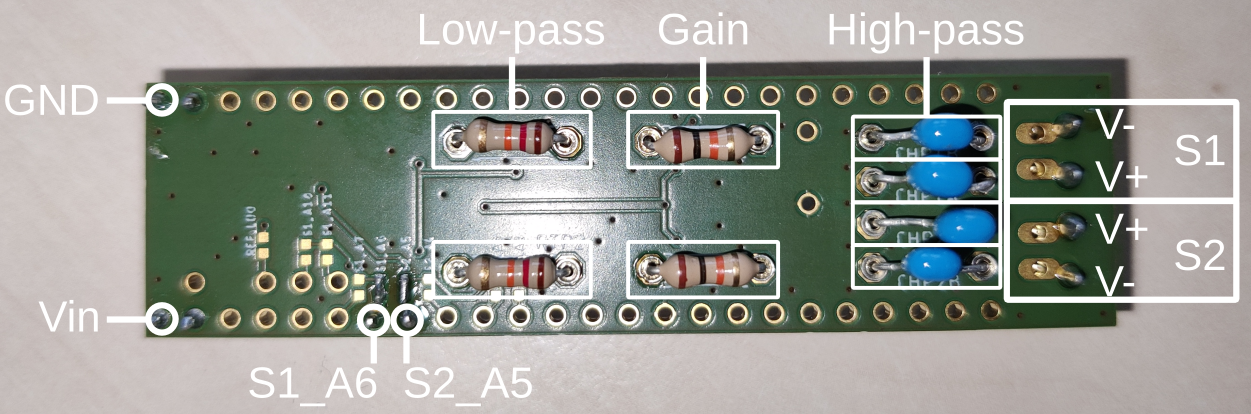
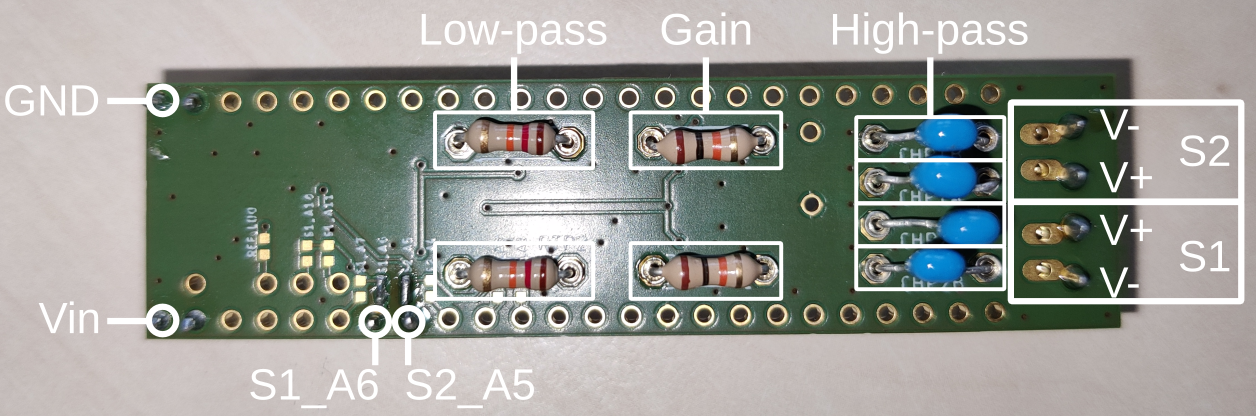
[R3] fixed channel naming

diff --git a/R4.0/README.md b/R4.0/README.md
@@ -6,8 +6,7 @@ With digitaly adjustable gain and filter settings.
 
 ## TODO
 
-- check annotation of the PCB - CH1 and CH2 on the top side might be wrong. It is right!
-- check annotation of the PCB - RTP1/2, RGAIN1/2, CHP* on the bottom side might be wrong. 
+- annotation of the PCB - RTP1/2, RGAIN1/2, CHP* on the bottom side is switched. 
 - Only connect a single Teensy GND to ground plane (the one opposite of Vin).
 - Remove wholes for VBAT, GND, VUSB
 - Make connection REF_LDO permanent -> No, if stacked, we get loops.

diff --git a/R3.0/README.md b/R3.0/README.md
@@ -41,13 +41,14 @@ The input signals are processed in the following way:
 
 ![pcb](images/teensy_amp_R3b_pcb.png)
 
+Note:
+- RTP1, RGAIN1, CHP1A, CHP1B are for channel 2
+- RTP2, RGAIN2, CHP2A, CHP2B are for channel 1
+
 ### Input
 
 The signal to be measured is connected via the screw-terminal block on
 the right.
-
-- Channel 1: top two pins.
-- Channel 2: bottom two pins.
 
 - The two inner pins are the positive V+ inputs.
 - The two outer pins are the negative V- inputs.
